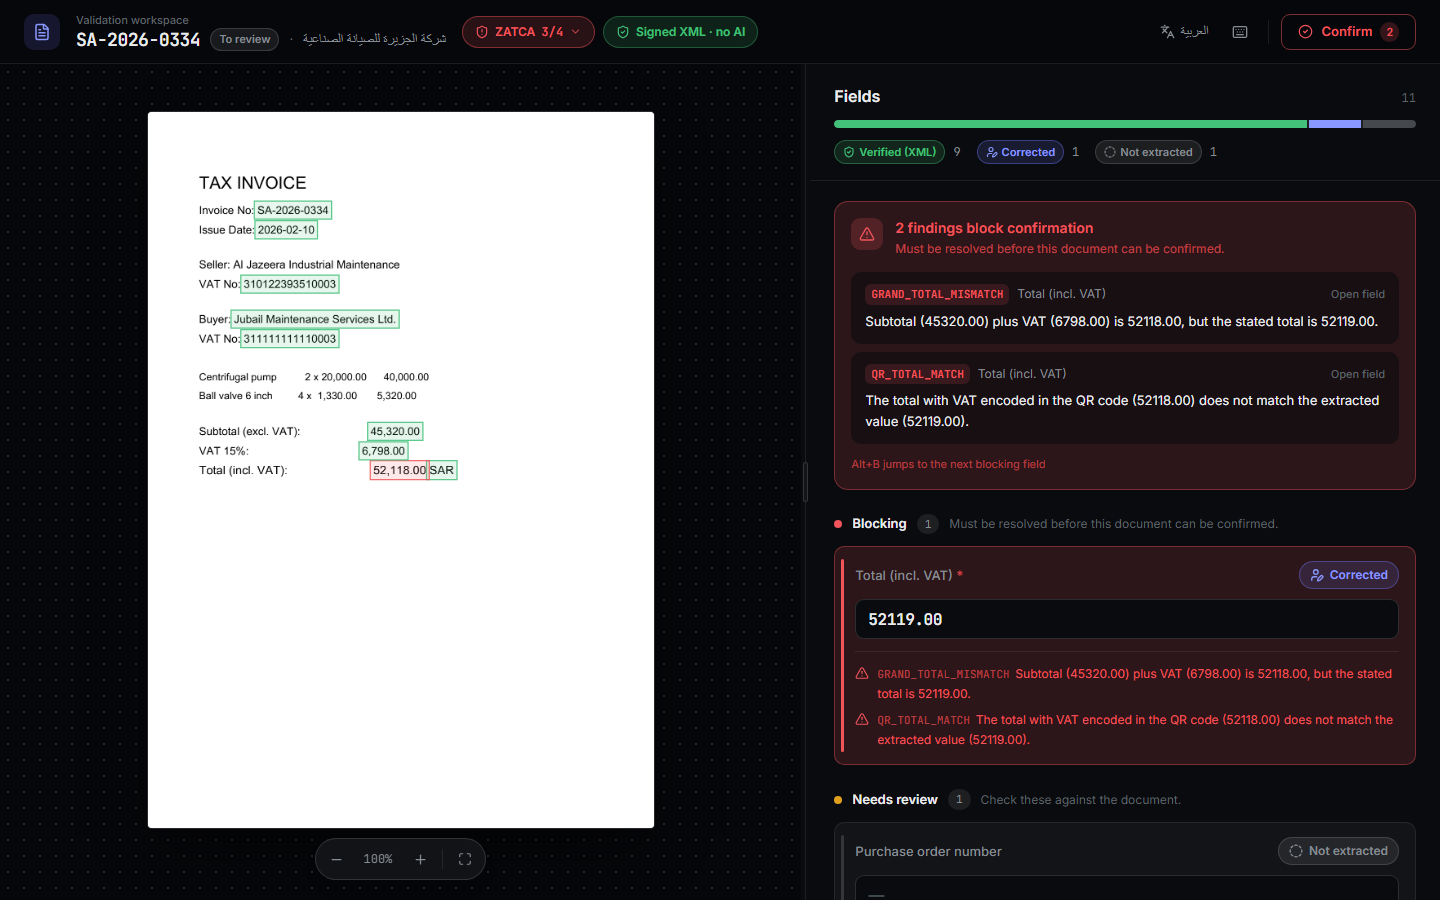
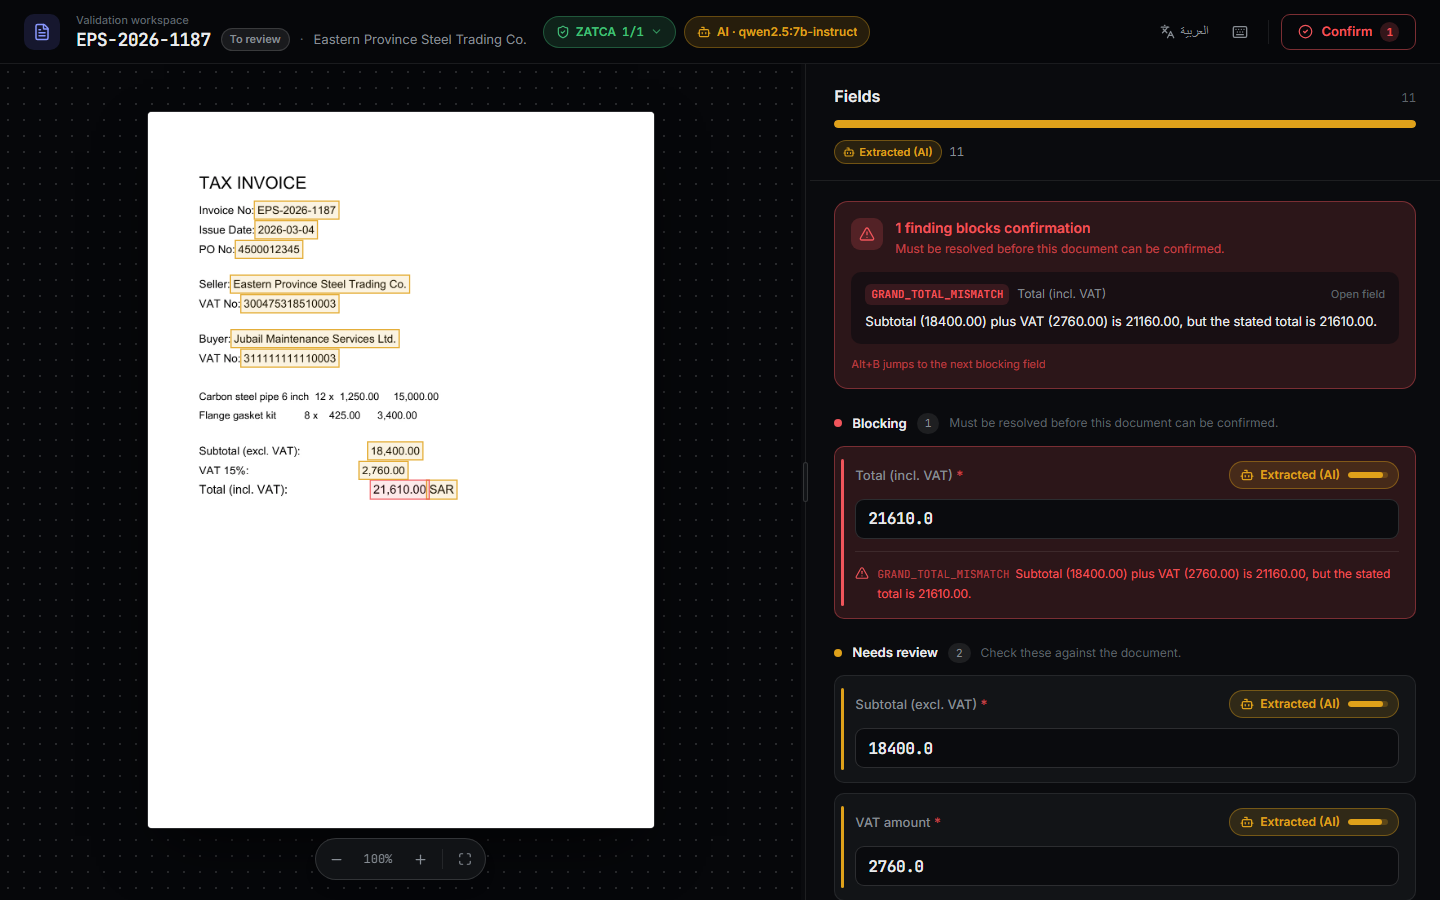
feat: seed the two demo documents, fix export bbox precision, refresh docs
Both demo documents now exist and behave as designed, and the docs describe what
they actually do rather than what they were meant to.

A, compliant: 0 model calls, 19 fields (11 header + 8 line-item cells), no
blockers, 29.8s end to end. B, no attachment: qwen2.5:7b-instruct read it in
164.9s, every one of its 11 values grounded with confidences 0.857-1.000, and
GRAND_TOTAL_MISMATCH pins the total — the invoice claims 21,610.00 where
18,400.00 + 2,760.00 is 21,160.00.

BBOX PRECISION. The real-data parity test caught what the hand-built sample
could not: JSON carried a coordinate to 17 significant digits while XLSX
serializes floats as %.16g, so the two formats disagreed in the last digit of
the same value. Grounding is a fuzzy text match and is not meaningful at 1e-17,
so the contract now states its precision — 6 decimals, rounded in ExportBBox
itself, so every construction path agrees — rather than letting three renderers
round differently. Regression test included.

Screenshots are re-taken from these two documents at 1440px in both locales,
replacing the 11 Sept captures, and docs/demo.md now carries B's real findings:
ZATCA 1/1 rather than 4/4, because with no attachment there is no embedded UBL
and no QR to check and a check that never ran is not reported as passed; and the
model's normalised "21610.0" against the page's "21,610.00", which is precisely
why original_value is kept.

Full suite: 291 passed, 1 skipped, 1 xfailed in 18m14s.

diff --git a/backend/app/schemas/export.py b/backend/app/schemas/export.py
@@ -21,11 +21,24 @@ from datetime import datetime
 from decimal import Decimal
 from typing import Literal
 
-from pydantic import BaseModel, ConfigDict, Field
+from pydantic import BaseModel, ConfigDict, Field, field_validator
 
 SCHEMA_VERSION: Literal["munsiq.invoice.v1"] = "munsiq.invoice.v1"
 
 ExportFormat = Literal["json", "xlsx", "csv"]
+
+
+BBOX_PRECISION = 6
+"""Decimal places kept on a bounding box coordinate.
+
+Two reasons, and neither is taste. Grounding is a fuzzy match against page text,
+so a coordinate is not meaningful to 17 significant digits — at 1e-6 of a page
+width this is already far below a printer dot. And XLSX serializes floats with
+``%.16g``, so a 17-digit coordinate comes back from a spreadsheet differing in
+its last digit: the formats would disagree while carrying "the same" value.
+Stating the precision once, in the contract, is better than three formats
+quietly rounding differently.
+"""
 
 
 class ExportBBox(BaseModel):
@@ -38,6 +51,11 @@ class ExportBBox(BaseModel):
     y0: float
     x1: float
     y1: float
+
+    @field_validator("x0", "y0", "x1", "y1")
+    @classmethod
+    def _round(cls, value: float) -> float:
+        return round(value, BBOX_PRECISION)
 
 
 class ExportField(BaseModel):

diff --git a/backend/tests/test_export_render.py b/backend/tests/test_export_render.py
@@ -147,6 +147,28 @@ def test_csv_and_xlsx_carry_exactly_what_json_carries() -> None:
     assert parse_xlsx(render_xlsx(invoice)) == expected
 
 
+def test_bbox_precision_is_stated_not_accidental() -> None:
+    """XLSX writes floats as %.16g, so the contract fixes the precision itself.
+
+    Without this the three formats disagree in the 17th digit on real grounding
+    output — the same value, rendered differently, which is exactly what one
+    contract exists to prevent.
+    """
+    invoice = sample()
+    invoice.invoice[0].bbox = ExportBBox(
+        page=1,
+        x0=0.22741514574579832,
+        y0=0.13674584250552071,
+        x1=0.35741848985688024,
+        y1=0.1526508285993635,
+    )
+    assert invoice.invoice[0].bbox.x0 == 0.227415
+
+    expected = expected_rows(render_json(invoice))
+    assert parse_xlsx(render_xlsx(invoice)) == expected
+    assert parse_csv(render_csv(invoice)) == expected
+
+
 def test_money_and_confidence_are_never_floats() -> None:
     workbook = load_workbook(io.BytesIO(render_xlsx(sample())))
     sheet = workbook[INVOICE_SHEET]

diff --git a/docs/demo.md b/docs/demo.md
@@ -10,6 +10,9 @@ prints both URLs, in both languages.
 cd backend && .venv/Scripts/python.exe -m scripts.seed_demo_documents
 ```
 
+Everything below is what these two documents actually do — screenshots of both,
+in both languages, are in [`screenshots/`](screenshots/).
+
 ---
 
 ## 0:00 — Open document A, the compliant invoice
@@ -19,12 +22,17 @@ cd backend && .venv/Scripts/python.exe -m scripts.seed_demo_documents
 The header says it before anything else: **ZATCA 4/4** and **Signed XML · no
 AI**. This invoice carried its own UBL attachment, so no model ran on it.
 
-Point at the field list: every badge is green, *Verified (XML)*. Then say the
-line that matters —
+The field pane summary reads **18 Verified (XML), 1 Not extracted** out of 19.
+Every green badge is a value read from the signed attachment. Then say the line
+that matters —
 
 > These values were not extracted. They were read out of the XML the supplier
 > cryptographically signed and filed with ZATCA. The extraction model was never
 > called for this document.
+
+The one field that is not green is the **purchase order number**, badged *Not
+extracted* rather than guessed: it is not in the XML, and nobody has verified
+whether it is on the page.
 
 ## 0:15 — Click a field
 
@@ -34,16 +42,22 @@ The box does not mean "we trust this" — provenance does. The box means "here i
 where that value is printed", so a reviewer can check the claim against the
 document in one glance instead of hunting.
 
-Scroll the field list to the **line items**: description, quantity, unit price
-and amount, per line, also from the XML. One is Arabic (`صمام كروي 6 انش`) in a
-document whose page is printed in English.
+Scroll to the **line items**: description, quantity, unit price and amount, per
+line, also from the XML — 8 cells across 2 lines. Their boxes are on the page
+too: *Centrifugal pump*, `20,000.00`, `40,000.00`.
+
+Two things deliberately have no box. The **seller name** is Arabic in the XML
+(`شركة الجزيرة للصيانة الصناعية`) while the page prints the English trading
+name, and the second line's description is Arabic on an English-printed page.
+The value is still authoritative — it was signed — but it is not printed there,
+so it gets no box rather than a wrong one.
 
 ## 0:30 — Switch to Arabic
 
 Click **العربية**. The whole interface mirrors: the field pane moves to the
 left, the document to the right, labels become Arabic — *رقم الفاتورة*, *اسم
-البائع* — and the invoice number stays left-to-right, because an identifier is
-not a sentence.
+البائع*, *الرقم الضريبي للبائع* — and the invoice number stays left-to-right,
+because an identifier is not a sentence.
 
 The page image does **not** mirror. A scanned invoice's top-left is its top-left
 in either language; page geometry is the one thing in this UI that must not
@@ -57,32 +71,36 @@ follow direction.
 
 `http://localhost:3000/en/annotations/<B>`
 
-> The compliant path below was verified end to end. Document B's findings
-> come from a live model run, so the exact badge confidences vary between
-> runs; `GRAND_TOTAL_MISMATCH` is the blocker the invoice is built to raise.
+Invoice `EPS-2026-1187`. Different story, visible immediately:
 
-Different story, visible immediately:
-
-* **Signed XML · no AI** is gone — this one says **AI · qwen2.5:7b-instruct**.
-  No attachment, so the model ran.
-* Badges are amber, *Extracted (AI)*, each with a **confidence bar**.
-* A red card sits at the top of the field pane: **GRAND_TOTAL_MISMATCH** —
-  *Subtotal (18,400.00) plus VAT (2,760.00) is 21,160.00, but the stated total
-  is 21,610.00.*
-* The offending field is pinned above everything else, its box on the page is
-  red, and the ZATCA chip is no longer 4/4.
+* **Signed XML · no AI** is gone. This one says **AI · qwen2.5:7b-instruct** —
+  no attachment, so the model ran (165s on this machine, CPU inference).
+* All 11 badges are amber, *Extracted (AI)*, each with a **confidence bar**.
+* The compliance chip reads **ZATCA 1/1**, not 4/4. Only the VAT-number checksum
+  had anything to check: with no attachment there is no embedded UBL and no QR
+  to decode. A check that never ran is not reported as passed.
+* A red card sits at the top of the field pane: **1 finding blocks
+  confirmation** — `GRAND_TOTAL_MISMATCH`, *"Subtotal (18400.00) plus VAT
+  (2760.00) is 21160.00, but the stated total is 21610.00."*
+* **Total (incl. VAT)** is pinned into its own *Blocking* section above
+  everything else, its box on the page is red, and **Confirm** turns red with a
+  count of 1.
 
 Two digits transposed. A human eye slides over it; arithmetic does not.
 
+Worth pointing at: the model returned `21610.0`, not the `21,610.00` printed on
+the page. It normalised the number — which is exactly why its output is treated
+as untrusted and checked, and why `original_value` is kept in the export.
+
 ## 1:10 — Try to confirm
 
-Click **Confirm**. It refuses, and says why in a banner with the rule codes.
+Click **Confirm**. It refuses, and a banner says why, with the rule code.
 
 > Validation here is not advisory. A document that does not add up cannot be
 > signed off and pushed downstream. Fix the value and the rules re-run —
 > correcting the data is what clears the block, not dismissing a warning.
 
-Correct the total to `21,160.00`. The blocker clears, the badge turns to
+Correct the total to `21160.00`. The blocker clears, the badge turns to
 *Corrected*, and **Confirm** goes through.
 
 ## 1:25 — Export

diff --git a/README.md b/README.md
@@ -97,35 +97,46 @@ Real numbers from this machine. Nothing here is estimated.
 
 | What | Measurement | How |
 | --- | --- | --- |
-| Backend test suite | **266 passed, 1 skipped, 1 xfailed — 14m13s** | full `pytest` run against Supabase Postgres 17, 2026-09-11 |
+| Backend test suite | **291 passed, 1 skipped, 1 xfailed — 18m14s** | full `pytest` run against Supabase Postgres 17, 2026-09-19 |
 | Validation rules | **14** (10 blocking, 4 advisory) | `@rule` decorators across `app/services/validation/rules/` |
 | Validation coverage | **100% statements and branches** — 445 statements, 148 branches, 0 missed | `pytest-cov --cov-branch` over `app/services/validation`, 97 tests in 21.9s |
-| Export renderers | **17 tests, 1.6s**, no database | `tests/test_export_render.py` |
-| Step Zero, compliant invoice | **0 model calls**; 9 of 11 header fields grounded on the page | seeded demo invoice, 2026-09-11 |
-| Model path, same schema | `qwen2.5:7b-instruct` via Ollama; 8 of 11 fields grounded | seeded demo invoice, 2026-09-11 |
+| Export renderers | **18 tests, 2.3s**, no database | `tests/test_export_render.py` |
+| Document A, compliant | **0 model calls**; 19 fields (11 header + 8 line-item cells); 9/11 header and 5/8 line cells grounded; no blockers; 29.8s end to end | `scripts/seed_demo_documents.py`, 2026-09-19 |
+| Document B, model path | `qwen2.5:7b-instruct` via Ollama; **11/11 fields grounded**; confidences 0.857–1.000; 1 blocker (`GRAND_TOTAL_MISMATCH`); model 164.9s, pipeline 181.0s | same run, CPU inference |
 | Tenant isolation | **17 of 17** org-scoped tables `ENABLE` + `FORCE`; 18 policies | live query against `pg_class` / `pg_policies` |
 
-The two ungrounded fields on the compliant invoice are honest gaps, not
-failures: the seller's legal name is Arabic in the XML while the page prints the
-English name, and the purchase-order number is not on that invoice at all. Both
-get no bounding box rather than a wrong one.
+The ungrounded values on document A are honest gaps, not failures. The seller's
+legal name is Arabic in the XML while the page prints the English trading name;
+the second line's description is Arabic on the same English page; the
+purchase-order number is not on that invoice at all; and the two line
+quantities ("2", "4") are too short to locate safely — a box on the wrong "2"
+is worse than no box. Each gets no bounding box rather than a wrong one, and
+keeps its authority either way: the XML is what was signed, not the page.
 
 ## The review workspace
 
 Bilingual, RTL-correct, dark. Provenance is the centrepiece.
 
-**Compliant invoice — every value from the signed XML (English):**
+**Document A — `ZATCA 4/4`, `Signed XML · no AI`, 18 of 19 values read straight
+from the signed attachment:**
 
 ![Validation workspace, compliant invoice, English](docs/screenshots/workspace-compliant-en.png)
 
-**The same document in Arabic — the whole layout mirrors, the page does not:**
+**The same document in Arabic. The layout mirrors, the labels come from the
+schema, and the page image deliberately does not mirror:**
 
 ![Validation workspace, compliant invoice, Arabic](docs/screenshots/workspace-compliant-ar.png)
 
-**A document that does not add up — the blocker is the primary element, the
-field is pinned to the top, and Confirm is refused:**
+**Document B — no attachment, so the model ran: amber badges with confidence
+bars, `ZATCA 1/1` because the other checks had nothing to check, and
+`GRAND_TOTAL_MISMATCH` pinned above everything with Confirm refused:**
 
-![Validation workspace, blocked document](docs/screenshots/workspace-blocked-en.png)
+![Validation workspace, blocked document, English](docs/screenshots/workspace-blocked-en.png)
+
+**And blocked in Arabic — the rule's message is written in both languages, not
+translated at render time:**
+
+![Validation workspace, blocked document, Arabic](docs/screenshots/workspace-blocked-ar.png)
 
 A 90-second click path through it: [`docs/demo.md`](docs/demo.md).
 
